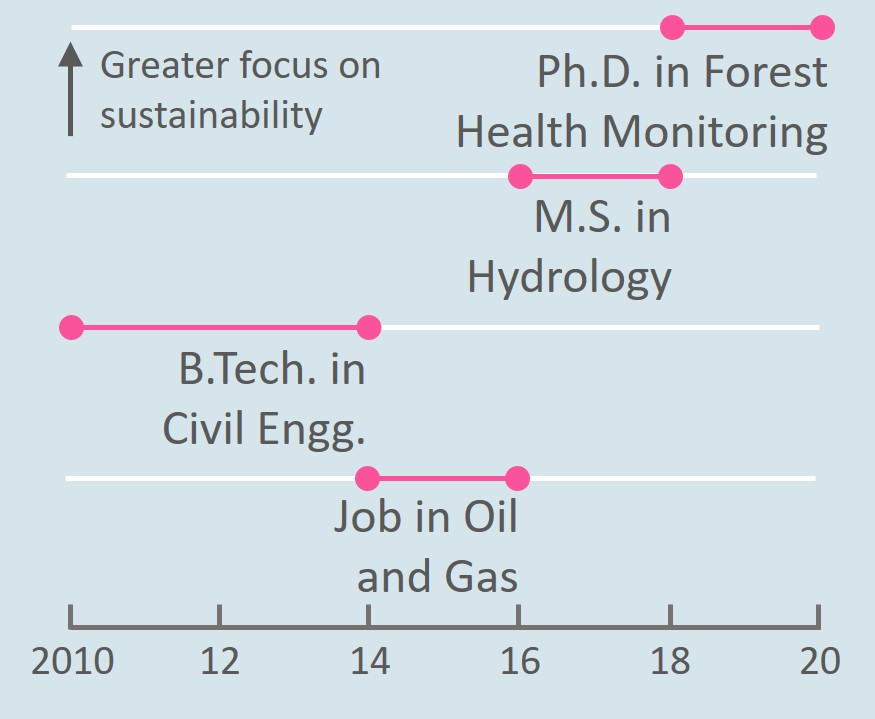
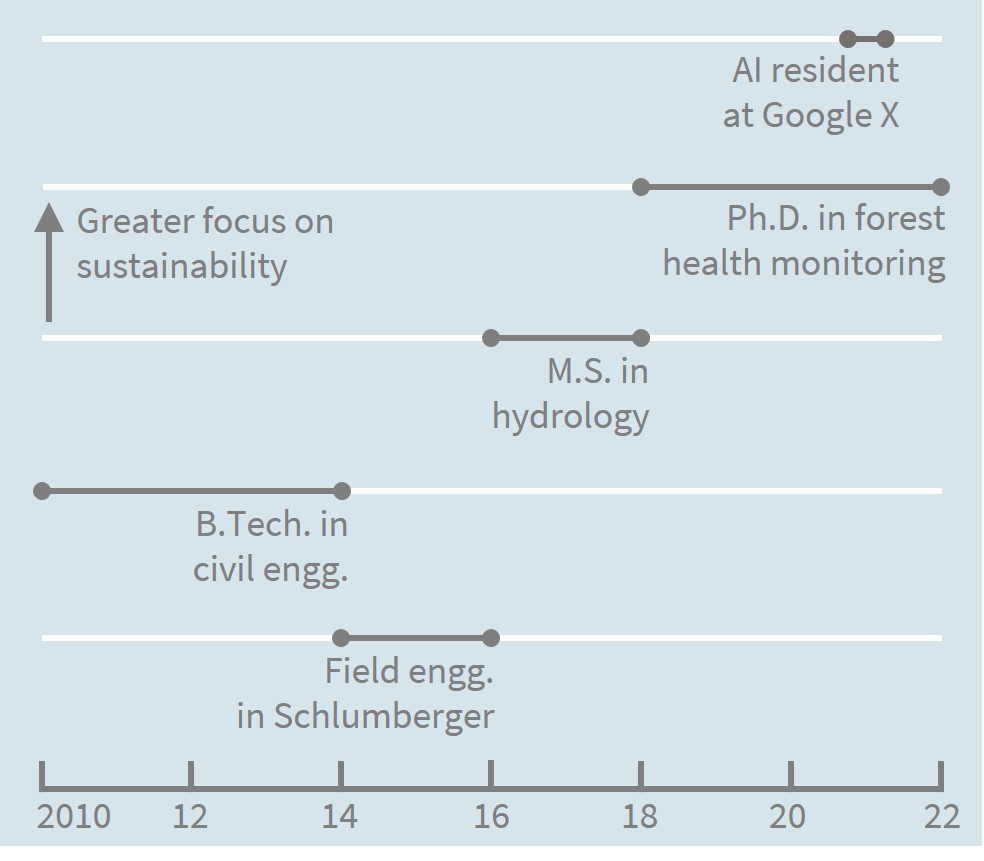
update to main page

Changed region(s): [[0.0, 0.0, 1.0, 1.0]]

diff --git a/_pages/about.md b/_pages/about.md
@@ -1,7 +1,7 @@
 ---
 permalink: /
-title: "Hire me!"
-excerpt: "Hire me!"
+title: "About me!"
+excerpt: "About me!"
 author_profile: true
 redirect_from: 
   - /about/
@@ -10,13 +10,13 @@ image: "/images/coverpicture.jpeg"
 ---
 
 <picture>
-    <source media="(min-width: 600px)" srcset="/images/hireme_wide.jpg">
-    <img src="/images/hireme.jpg" alt="Looking for my next opportunity in geospatial technologies.">
+    <source media="(min-width: 600px)" srcset="/images/timespent_wide.jpg">
+    <img src="/images/timespent.jpg" alt="Time line of my previous experience">
 </picture>
-_Looking for my next opportunity in geospatial technologies._
+<!-- _Looking for my next opportunity in geospatial technologies._ -->
 
 
-I am looking for an internship for the summer of 2021. I am eager to apply my skills in developing data-driven geospatial models to solve your problems! 
+<!-- I am looking for an internship for the summer of 2021. I am eager to apply my skills in developing data-driven geospatial models to solve your problems! 
 
 My skills include- 
 
@@ -24,7 +24,7 @@ My skills include-
 2. Geospatial analytics
 3. Hypothesis testing (including causal inference) 
 
-I am open to work remotely from Stanford, CA. Interested or know anyone who might be interested in hiring me? [Please email me.](mailto:kkrao@stanford.edu)
+I am open to work remotely from Stanford, CA. Interested or know anyone who might be interested in hiring me? [Please email me.](mailto:kkrao@stanford.edu) -->
 
 
 # About me
